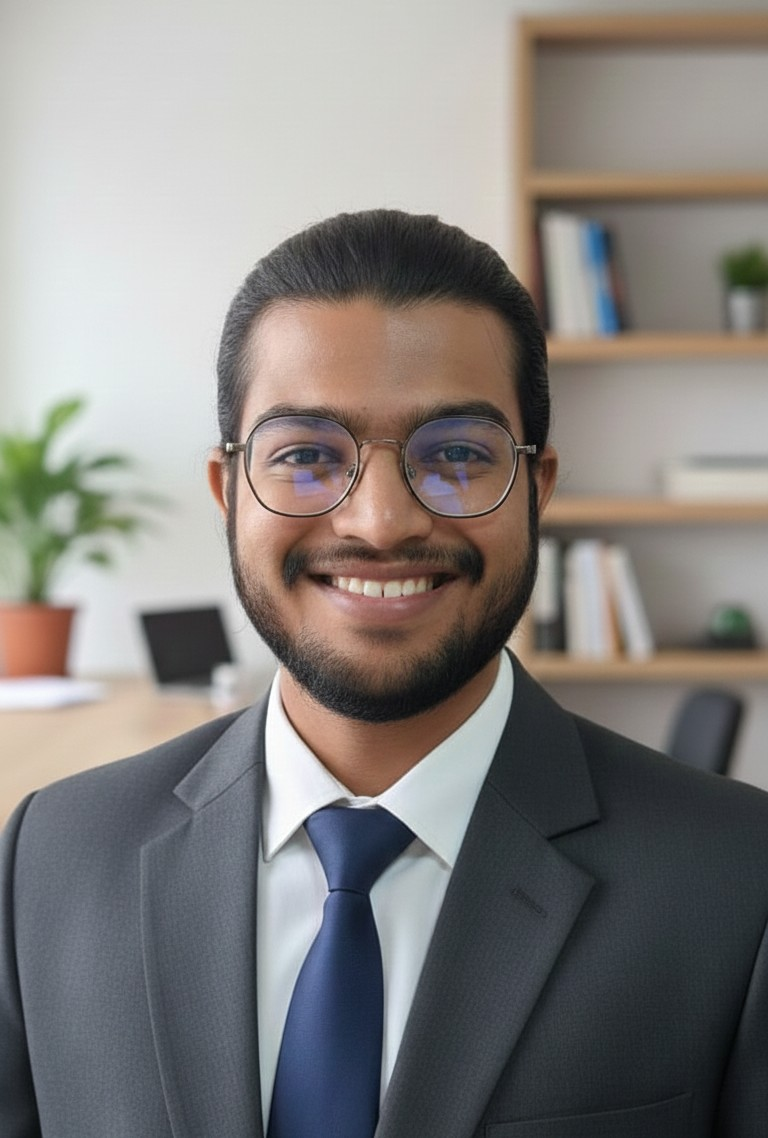
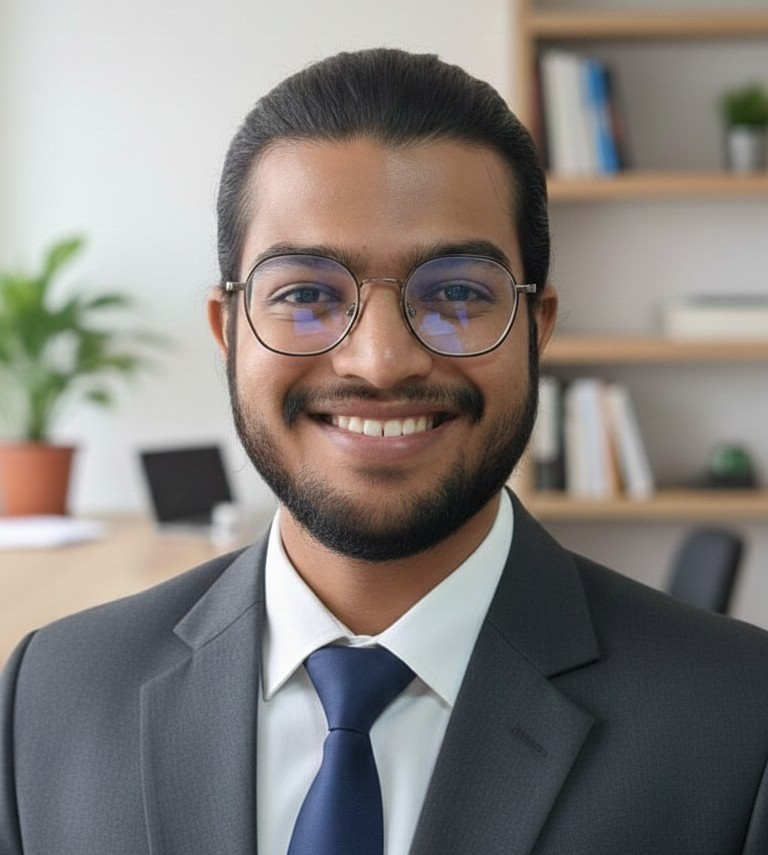
Add files via upload

diff --git a/style.css b/style.css
@@ -23,18 +23,21 @@ body {
     text-align: center;
     margin-bottom: 30px;
 }
-
 .profile-pic {
-    width: 160px;
-    height: 160px;
+    width: 190px;
+   
+    height: 210px;
     border-radius: 50%;
     border: 3px solid #00a6ff;
     box-shadow: 0 0 15px #009dff;
     transition: 0.3s ease-in-out;
+    object-fit: cover;
+    object-position: center;
+   
 }
 
 .profile-pic:hover {
-    transform: scale(1.08);
+    transform: scale(1.13);
     box-shadow: 0 0 25px #00b7ff;
 }
 
